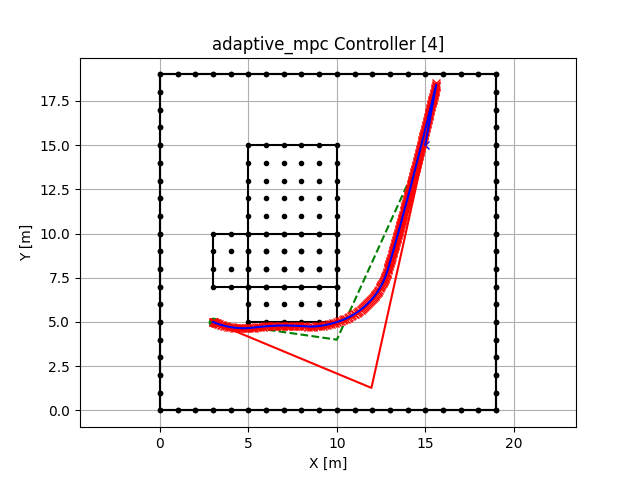
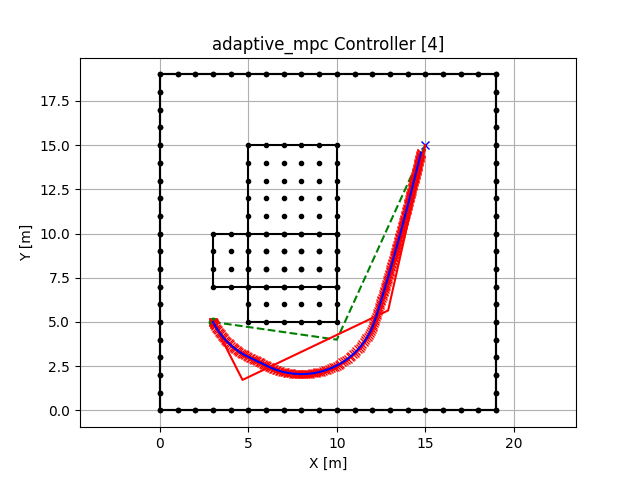
Add: Normalized MI

Changed region(s): [[0.3125, 0.1562, 0.6875, 0.8125]]

diff --git a/controller/hybrid_mi_controller.py b/controller/hybrid_mi_controller.py
@@ -9,7 +9,7 @@ from map.parking_lot import ParkingLot
 from map.complex_grid_map import ComplexGridMap
 
 from controller.base_controller import BaseController
-from controller.mpc_controller import MPCController
+from controller.adaptive_mpc_controller import AdaptiveMPCController
 from controller.pure_pursuit_controller import PurePursuitController
 
 from route_planner.informed_trrt_star_planner import Pose, InformedTRRTStar
@@ -23,7 +23,8 @@ def mutual_information(route1, route2):
     joint_hist, _, _ = np.histogram2d(route1[:, 0], route2[:, 0], bins=20, density=True)
     joint_entropy = entropy(joint_hist.flatten())
     mi = entropy1 + entropy2 - joint_entropy
-    return mi
+    nmi = mi / np.sqrt(entropy1 * entropy2) # normalized mutual information
+    return nmi
 
 def optimize_combined_path(state_mpc, state_pure_pursuit, mi):
     """현재 스텝에서 두 경로를 상호 정보에 따라 결합하여 최적 경로 상태 생성"""
@@ -46,7 +47,7 @@ def optimize_combined_path(state_mpc, state_pure_pursuit, mi):
 class HybridMIController(BaseController):
     def __init__(self, horizon, dt, wheelbase, map_instance):
         super().__init__(dt, wheelbase, map_instance)
-        self.mpc_controller = MPCController(horizon=horizon, dt=dt, wheelbase=wheelbase, map_instance=map_instance)
+        self.mpc_controller = AdaptiveMPCController(horizon=horizon, dt=dt, wheelbase=wheelbase, map_instance=map_instance)
         self.pure_pursuit_controller = PurePursuitController(lookahead_distance=5.0, dt=dt, wheelbase=wheelbase, map_instance=map_instance)
 
     def follow_trajectory(self, start_pose, ref_trajectory, goal_position, show_process=False):
@@ -68,11 +69,12 @@ class HybridMIController(BaseController):
             steering_angle_pure_pursuit = self.pure_pursuit_controller.compute_control(current_state, target_state)
             next_state_pure_pursuit = self.pure_pursuit_controller.apply_control(current_state, steering_angle_pure_pursuit, velocity=0.5)
 
-            print(next_state_mpc)
-            print(next_state_pure_pursuit)
+            print(f"Next State MPC: {next_state_mpc}")
+            print(f"Next State Pure Pursuit: {next_state_pure_pursuit}")
 
             # 현재 스텝에서 두 경로 간의 Mutual Information 계산
             mi = mutual_information(np.array([next_state_mpc]), np.array([next_state_pure_pursuit]))
+            print(f"Mutual Information: {mi}")
 
             # 두 경로를 결합하여 최적 경로 생성
             combined_state = optimize_combined_path(next_state_mpc, next_state_pure_pursuit, mi)

diff --git a/controller/adaptive_mpc_controller.py b/controller/adaptive_mpc_controller.py
@@ -28,8 +28,13 @@ class AdaptiveMPCController(MPCController):
         current_state = np.array([start_pose.x, start_pose.y, start_pose.theta, 0.0])
         trajectory = [current_state.copy()]
 
+        is_reached = True
+
         # Follow the reference trajectory
         for i in range(len(ref_trajectory)):
+            if self.is_goal_reached(current_state, goal_position):
+                print("Goal reached successfully!")
+                break
 
             self.horizon = min(self.horizon, len(ref_trajectory) - i)
 
@@ -38,10 +43,10 @@ class AdaptiveMPCController(MPCController):
             control_input = self.optimize_control(current_state, ref_segment)
             next_state = self.apply_control(current_state, control_input)
 
+            adjusted_states = self.avoid_obstacle(current_state, next_state)
             if not self.is_collision_free(current_state, next_state):
                 print(f"Collision detected at step {i}. Attempting to avoid obstacle...")
-                adjusted_targets = self.avoid_obstacle(current_state, next_state)
-                is_reached, next_state = self.select_best_path(current_state, adjusted_targets, goal_position)
+                is_reached, next_state = self.select_best_path(current_state, adjusted_states, goal_position)
                 if not is_reached:
                     print("Goal not reachable.")
                     return is_reached, 0, np.array(trajectory)

diff --git a/test/test_speed_controller.py b/test/test_speed_controller.py
@@ -171,5 +171,10 @@ def main():
     ax3.set_title("Algorithm Performance Comparison (10 Runs)")
     ax3.grid(True)
 
+    # Adjust layout and show plot
+    plt.tight_layout()  # Ensure there's enough space between the plots
+    plt.savefig("results/test_route_planner/performance_route_planner.png")
+    plt.show()
+
 if __name__ == "__main__":
     main()
